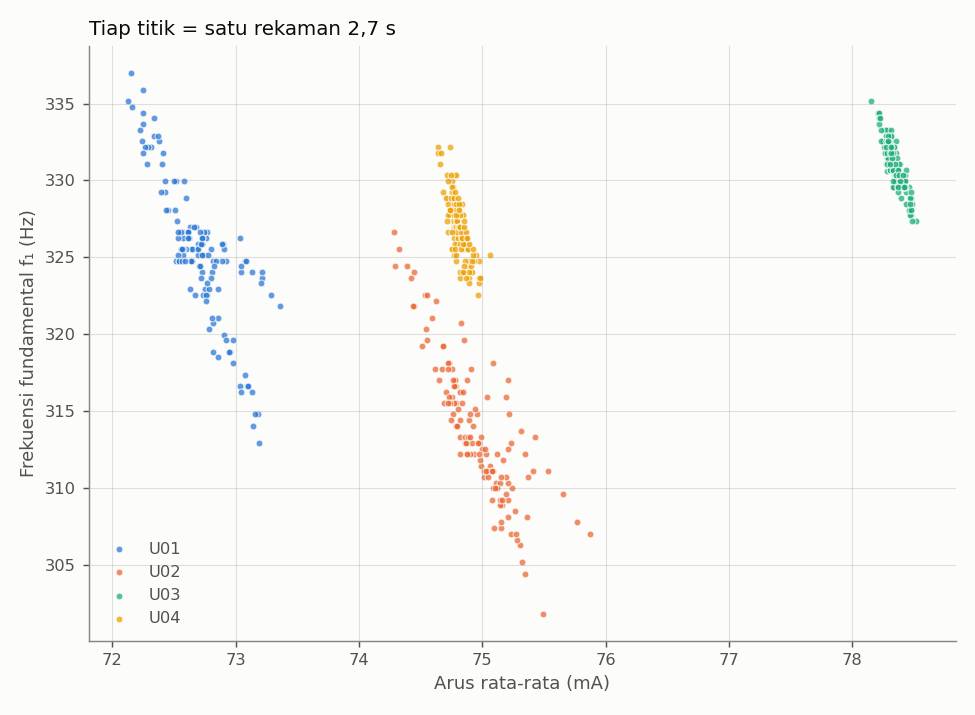
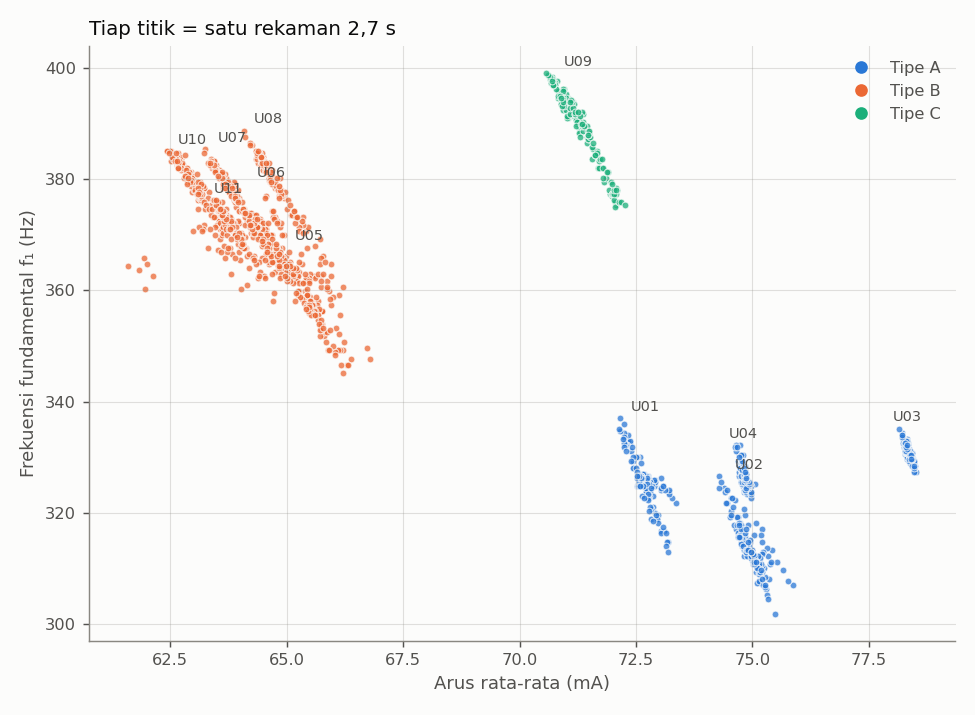
Rekaman U05-U11 dan analisis gerbang kelayakan 11 unit (tiga tipe karakteristik arus)

diff --git a/tools/overlay_orde.py b/tools/overlay_orde.py
@@ -11,6 +11,8 @@ pita fundamental), lalu dirata-rata. Hasil:
 
 Contoh:
     python tools/overlay_orde.py --units u01 u02 u03 u04 --sesi s4 --skip 60
+    python tools/overlay_orde.py --tipe A:u01,u02,u03,u04 B:u05,u06 C:u09 --sesi s4
+    (dengan --tipe, warna mengikuti tipe kipas dan ditambah grafik bentuk gelombang)
 ------------------------------------------------------------------
 """
 import argparse
@@ -67,14 +69,29 @@ def style(ax):
 
 def main():
     ap = argparse.ArgumentParser()
-    ap.add_argument("--units", nargs="+", required=True)
+    ap.add_argument("--units", nargs="+", default=[])
+    ap.add_argument("--tipe", nargs="+", default=[],
+                    help="kelompok tipe, mis. A:u01,u02 B:u05,u06 (warna per tipe)")
     ap.add_argument("--sesi", default="s4")
     ap.add_argument("--skip", type=float, default=60, help="buang rekaman t < skip detik (pemanasan)")
     ap.add_argument("--outdir", default="data")
     args = ap.parse_args()
 
+    tipe_of = {}
+    for item in args.tipe:
+        name, members = item.split(":")
+        for u in members.split(","):
+            tipe_of[u] = name
+    units = list(tipe_of) or args.units
+    if not units:
+        ap.error("pakai --units atau --tipe")
+    tipe_names = list(dict.fromkeys(tipe_of.values()))
+
+    def color_of(u, k):
+        return COLORS[tipe_names.index(tipe_of[u])] if tipe_of else COLORS[k]
+
     res = {}
-    for u in args.units:
+    for u in units:
         recs = [per_recording(p) for p in sorted(glob.glob(f"data/sehat_{u}_pwm100_{args.sesi}_*.csv"))]
         recs = [r for r in recs if not (r["t"] < args.skip)]
         if recs:
@@ -85,9 +102,15 @@ def main():
     # ---- 1. Overlay spektrum orde ----
     fig, ax = plt.subplots(figsize=(11, 5.5), facecolor=SURFACE)
     style(ax)
+    seen = set()
     for k, (u, recs) in enumerate(res.items()):
         mean_amp = np.nanmean([r["amp_o"] for r in recs], axis=0)
-        ax.semilogy(ORDER_GRID, mean_amp, lw=1.2, color=COLORS[k], label=f"{u.upper()} (n={len(recs)})")
+        if tipe_of:
+            lbl = None if tipe_of[u] in seen else f"Tipe {tipe_of[u]}"
+            seen.add(tipe_of[u])
+        else:
+            lbl = f"{u.upper()} (n={len(recs)})"
+        ax.semilogy(ORDER_GRID, mean_amp, lw=1.0, alpha=0.85, color=color_of(u, k), label=lbl)
     for k in (1, 2, 3, 4):
         ax.axvline(k, color=MUTED, lw=0.6, ls=":")
     ax.set_xlabel("Orde (f / f₁)", color=INK2)
@@ -104,14 +127,41 @@ def main():
     style(ax)
     for k, (u, recs) in enumerate(res.items()):
         ax.scatter([r["dc"] for r in recs], [r["f1"] for r in recs], s=14, alpha=0.75,
-                   color=COLORS[k], edgecolors=SURFACE, linewidths=0.6, label=u.upper())
+                   color=color_of(u, k), edgecolors=SURFACE, linewidths=0.6, label=u.upper())
+        if tipe_of:
+            ax.annotate(u.upper(), (np.median([r["dc"] for r in recs]), np.max([r["f1"] for r in recs])),
+                        textcoords="offset points", xytext=(0, 4), ha="center", fontsize=8, color=INK2)
     ax.set_xlabel("Arus rata-rata (mA)", color=INK2)
     ax.set_ylabel("Frekuensi fundamental f₁ (Hz)", color=INK2)
     ax.set_title("Tiap titik = satu rekaman 2,7 s", color=INK, fontsize=11, loc="left")
-    ax.legend(frameon=False, labelcolor=INK2, fontsize=9)
+    if tipe_of:
+        handles = [plt.Line2D([], [], marker="o", ls="", color=COLORS[i]) for i in range(len(tipe_names))]
+        ax.legend(handles, [f"Tipe {t}" for t in tipe_names], frameon=False, labelcolor=INK2, fontsize=9)
+    else:
+        ax.legend(frameon=False, labelcolor=INK2, fontsize=9)
     fig.tight_layout()
     p2 = os.path.join(args.outdir, "gerbang_f1_vs_arus.png")
     fig.savefig(p2, dpi=130, facecolor=SURFACE)
+
+    # ---- 2b. Bentuk gelombang satu unit per tipe (small multiples, sumbu y sama) ----
+    p3 = None
+    if tipe_of:
+        reps = {t: next(u for u in res if tipe_of[u] == t) for t in tipe_names}
+        fig, axes = plt.subplots(len(reps), 1, figsize=(10, 2.3 * len(reps)), sharex=True, sharey=True,
+                                 facecolor=SURFACE)
+        axes = np.atleast_1d(axes)
+        for ax, (t, u) in zip(axes, reps.items()):
+            style(ax)
+            files = sorted(glob.glob(f"data/sehat_{u}_pwm100_{args.sesi}_*.csv"))
+            _, tt, raw = load_csv(files[len(files) // 2])
+            n = int(0.02 * 1e6 / np.median(np.diff(tt)))                 # 20 ms
+            ax.plot((tt[:n] - tt[0]) / 1e3, raw[:n] * LSB_MA, lw=1.2, color=COLORS[tipe_names.index(t)])
+            ax.set_title(f"Tipe {t} — {u.upper()}", color=INK, fontsize=10, loc="left")
+            ax.set_ylabel("Arus (mA)", color=INK2)
+        axes[-1].set_xlabel("Waktu (ms)", color=INK2)
+        fig.tight_layout()
+        p3 = os.path.join(args.outdir, "gerbang_bentuk_gelombang.png")
+        fig.savefig(p3, dpi=130, facecolor=SURFACE)
 
     # ---- 3. Tabel ciri ----
     names = ["f1 (Hz)", "I (mA)", "riak/DC (%)", "A orde1 (mA)", "A orde2 (mA)", "A orde3 (mA)", "A orde4 (mA)"]
@@ -125,7 +175,7 @@ def main():
         within = np.mean([rows[u][1][j] for u in rows])
         print(f"{n:14s}" + "".join(f"{rows[u][0][j]:>10.3f} ± {rows[u][1][j]:<5.3f}" for u in rows)
               + f"{means.std(ddof=1) if len(means) > 1 else float('nan'):>14.3f}{within:>14.3f}")
-    print(f"\nGambar: {p1}\n        {p2}")
+    print(f"\nGambar: {p1}\n        {p2}" + (f"\n        {p3}" if p3 else ""))
 
 
 if __name__ == "__main__":

diff --git a/docs/analisis-gerbang-kelayakan-2.md b/docs/analisis-gerbang-kelayakan-2.md
@@ -1,0 +1,100 @@
+# Analisis Gerbang Kelayakan — Langkah 1 (Lengkap): 11 Unit Kondisi Sehat
+
+*Tanggal: 16-10-2026 · Data: sesi s4, unit U01–U11 · Skrip: `tools/overlay_orde.py --tipe ...` · Lanjutan dari [analisis-gerbang-kelayakan-1.md](analisis-gerbang-kelayakan-1.md)*
+
+## Ringkasan
+
+1. Sebelas kipas berlabel sama (Hanaya FAN5010DC, 12 V / 0,09 A, toko yang sama) ternyata terbagi menjadi **tiga karakteristik arus** yang berbeda jelas. Perbedaan ini kemungkinan besar berasal dari rangkaian penggerak motor di dalam kipas, karena bentuk luar, stiker, dan bunyinya identik.
+2. **Tipe A** (U01–U04) dan **tipe B** (U05–U08, U10, U11) dipakai sebagai unit utama. **U09** (tipe C, satu-satunya) dijadikan **unit cadangan**. Hasilnya sudah dikonfirmasi dengan rekaman ulang tanpa beban listrik besar lain di jaringan.
+3. Di dalam satu tipe, unit-unit kipas cukup mirip. Antar tipe, perbedaannya sangat besar (riak/DC 6 % vs 25 %). Rancangan eksperimen perlu menyertakan **kedua tipe di setiap jalur perlakuan**, supaya model belajar mengenali kondisi, bukan tipe kipas.
+4. Tipe B menghasilkan riak dengan perubahan sangat tajam, sehingga banyak harmonik tinggi **ter-*alias*** pada laju cuplik 3030 SPS. Hal ini perlu ditangani sebelum pengumpulan data sapuan PWM.
+
+## 1. Data
+
+| Tipe | Unit | Riwayat | Rekaman dianalisis |
+|---|---|---|---|
+| A | U01, U02 | sudah beberapa kali dioperasikan | 136 per unit |
+| A | U03, U04 | inreyen 30 menit | 136–150 per unit |
+| B | U05, U06, U07, U08, U10, U11 | inreyen 1 jam | 136–150 per unit |
+| C | U09 | inreyen 1 jam | 150 (+ 30 rekaman ulang) |
+
+Kondisi: 12,72 V tanpa PWM, dudukan terstandar, kipas angin ruangan mati, 0 konversi terlewat di semua rekaman. Rekaman 60 detik pertama tiap unit dibuang (pemanasan).
+
+## 2. Bentuk gelombang arus
+
+![Bentuk gelombang arus tiap tipe](../data/gerbang_bentuk_gelombang.png)
+
+- **Tipe A:** riak halus di sekitar 70–75 mA dengan penurunan kecil setiap komutasi (p-p ±28 mA).
+- **Tipe B:** arus **anjlok tajam hingga mendekati 0–40 mA** setiap komutasi (p-p ±86 mA). Pola ini khas penggerak yang memutus arus sepenuhnya saat pergantian fasa.
+- **Tipe C (U09):** bentuk trapesium tanpa penurunan tajam (p-p ±27 mA), berbeda dari keduanya.
+
+## 3. Ringkasan ciri per unit
+
+| Unit | Tipe | f₁ (Hz) | I (mA) | Riak/DC (%) | Amplitudo orde 1 (mA) | Amplitudo orde 2 (mA) |
+|---|---|---|---|---|---|---|
+| U01 | A | 325,3 ± 4,6 | 72,70 | 6,02 | 1,85 | 1,07 |
+| U02 | A | 313,9 ± 4,6 | 74,96 | 5,97 | 1,85 | 1,01 |
+| U03 | A | 331,0 ± 1,6 | 78,34 | 5,88 | 2,05 | 0,65 |
+| U04 | A | 326,9 ± 2,0 | 74,82 | 5,92 | 1,92 | 0,95 |
+| U05 | B | 358,3 ± 5,5 | 65,48 | 24,98 | 5,26 | 8,42 |
+| U06 | B | 368,9 ± 4,8 | 64,75 | 25,20 | 5,48 | 8,34 |
+| U07 | B | 376,0 ± 5,8 | 63,93 | 24,09 | 4,50 | 7,89 |
+| U08 | B | 379,8 ± 5,1 | 64,71 | 24,26 | 4,19 | 7,85 |
+| U10 | B | 378,1 ± 5,2 | 63,06 | 25,30 | 4,46 | 7,46 |
+| U11 | B | 370,5 ± 4,0 | 63,72 | 25,99 | 5,89 | 8,49 |
+| U09 | C | 388,9 ± 6,8 | 71,33 | 9,92 | 5,96 | 0,99 |
+
+Pengamatan:
+
+- **Riak/DC adalah pembeda tipe yang sangat tegas:** 5,9–6,0 % (A), 24,1–26,0 % (B), 9,9 % (C). Variasi di dalam satu tipe kecil (±0,2–0,8 poin).
+- **Di dalam tipe B, unit-unit saling tumpang tindih** pada bidang f₁–arus (lihat Gambar 4). Sebaliknya, keempat unit tipe A terpisah satu sama lain pada sumbu arus.
+- Tipe B lebih cepat (f₁ 358–380 Hz) dan menarik arus lebih kecil (63–65,5 mA) dibanding tipe A (314–331 Hz, 72,7–78,3 mA).
+- Pada **semua tipe**, kecepatan berfluktuasi ±1–2 % dan selalu berbanding terbalik dengan arus.
+
+## 4. Spektrum orde dan sebaran f₁–arus
+
+![Spektrum orde per tipe](../data/gerbang_spektrum_orde.png)
+
+![f₁ vs arus semua unit](../data/gerbang_f1_vs_arus.png)
+
+- Orde bulat (1–4 × f₁) muncul pada semua tipe, tetapi rasio amplitudonya berbeda: tipe B memiliki orde 2 yang paling kuat, sedangkan tipe A dan C didominasi orde 1.
+- **Lantai derau tipe B ±0,11 mA, hampir 3× tipe A (±0,04 mA).** Ini konsisten dengan banyaknya harmonik tinggi yang ter-*alias* dan menyebar ke seluruh spektrum.
+- Pada tipe B, puncak lebar di orde ≈ 0,7; 1,7; 2,7; 3,7 adalah ***alias*** harmonik ke-13 s.d. ke-16 (di sekitar 2 × laju cuplik). Komponen ini bergeser berlawanan arah dengan kecepatan, sehingga tidak boleh dipakai sebagai ciri.
+- Amplitudo di orde ¼ f₁ (kandidat 1× putaran, tanda tangan Tidak Seimbang):
+
+  | Tipe | Nilai per unit (mA) | σ antar-unit (mA) | Lantai derau (mA) |
+  |---|---|---|---|
+  | A | 0,075 · 0,070 · 0,092 · 0,084 | 0,010 | 0,04 |
+  | B | 0,51 · 0,23 · 0,23 · 0,23 · 0,23 · 0,25 | 0,11 (0,012 tanpa U05) | 0,11 |
+  | C | 0,33 | — | 0,05 |
+
+  Pada tipe B, hubungan f₁ = 4 × putaran **belum terbukti**. Puncak orde ¼ yang jelas pada tipe A tidak tampak pada tipe B, dan U05 memiliki garis dasar 2× lebih tinggi dari unit B lainnya.
+
+## 5. Implikasi dan usulan (perlu persetujuan dosen pembimbing)
+
+**a. Pembagian unit ke jalur perlakuan, dengan kedua tipe di setiap jalur:**
+
+| Jalur | Perlakuan | Usulan unit | Tipe A | Tipe B |
+|---|---|---|---|---|
+| A | Sehat → blokade → massa 33/67/100 mg | 2 tipe A + 2 tipe B | 2 | 2 |
+| B | Sehat → blokade | 1 tipe A + 2 tipe B | 1 | 2 |
+| C | Sehat → bilah dipatahkan | 1 tipe B | — | 1 |
+| E | Tidak diberi perlakuan (kontrol) | 1 tipe A + 1 tipe B | 1 | 1 |
+| Cadangan | — | U09 (tipe C) | — | — |
+
+Cakupan: Aliran Terhambat 7 unit (3 A + 4 B), Tidak Seimbang 4 unit (2 A + 2 B). Penentuan unit mana masuk jalur mana dapat dilakukan secara acak di dalam tiap tipe.
+
+**b. Pemilihan ciri:** gunakan ciri yang dinormalisasi (rasio terhadap DC atau terhadap amplitudo orde 1) dan berbasis orde. Arus absolut dan riak/DC sangat bergantung pada tipe, sehingga berisiko membuat model mengenali tipe kipas, bukan kondisinya.
+
+**c. Validasi:** selain *leave-one-unit-out*, laporkan akurasi per tipe, dan bila memungkinkan uji **lintas tipe** (latih pada satu tipe, uji pada tipe lain) sebagai ukuran generalisasi.
+
+**d. *Aliasing* pada tipe B (masalah teknis yang perlu diputuskan sebelum sapuan PWM).** Pilihan yang dapat diuji:
+1. Menaikkan laju cuplik ke 4,9 kSPS (VSHCT 204 µs). Perlu uji apakah I²C sanggup tanpa konversi terlewat.
+2. Menambahkan tapis RC diferensial di masukan INA226 (IN+/IN−). Perlu dipilih nilai R yang kecil agar arus bias masukan INA226 tidak menimbulkan galat.
+3. Menerima *alias* dan hanya memakai ciri di orde rendah yang tidak tercemar.
+
+## 6. Keterbatasan
+
+- Hanya satu sesi (s4). Sesi kedua (s5) untuk validasi antar-sesi belum direkam.
+- Semua pada tegangan penuh; belum ada data sapuan PWM.
+- Penyebab perbedaan tipe (rangkaian penggerak internal) belum diverifikasi secara fisik, misalnya dengan membongkar satu unit.

diff --git a/README.md b/README.md
@@ -28,7 +28,7 @@ Sistem pemantau kondisi kipas pendingin **DC 12 V** yang berjalan sepenuhnya di 
 | Domain | **DC 12 V** (disetujui dosen pembimbing) |
 | Mikrokontroler | ESP32-S3 (DevKitC-1 atau setara) |
 | Sensor | **INA226**, alamat I²C `0x44`, *shunt* bawaan **0,1 Ω** (R100) |
-| Objek uji | Kipas **Hanaya FAN5010DC**: 50×50×10 mm, *brushless*, 12 V / 0,09 A, 2 kabel (tanpa tacho), **7 bilah**. Total 10 unit (U01–U10) |
+| Objek uji | Kipas **Hanaya FAN5010DC**: 50×50×10 mm, *brushless*, 12 V / 0,09 A, 2 kabel (tanpa tacho), **7 bilah**. 10 unit utama (U01–U08, U10, U11) + U09 cadangan; terdapat dua tipe karakteristik arus (A dan B), lihat log 16-10-2026 |
 | Resolusi arus | 2,5 µV/LSB ÷ 0,1 Ω = **25 µA/LSB**; batas ukur 0,819 A |
 | Jumlah kelas | **4** (cadangan: 3 kelas bila kelas Aliran Terhambat tidak terpisah) |
 | Ciri | Spektrum FFT dengan ***order tracking*** (orde putaran, bukan Hz absolut) + statistik riak |
@@ -194,7 +194,7 @@ robocopy data "G:\My Drive\proyek-kipas-edge-ai-data" *.csv /S /XO
 
 ## Progres dan Log Eksperimen
 
-**Langkah berikutnya:** (1) rekam U05–U10 kondisi Sehat (kipas baru: inreyen 30 menit dulu); (2) rangkaian PWM untuk sapuan 40–100 % — data Sehat pada berbagai *duty* harus terkumpul **sebelum** perlakuan permanen (massa) pada unit jalur A. Pengukuran RPM dengan stroboskop masih tertunda.
+**Langkah berikutnya:** (1) konsultasi dosen: pembagian jalur per tipe kipas dan penanganan *aliasing* tipe B (lihat `docs/analisis-gerbang-kelayakan-2.md`); (2) rangkaian PWM untuk sapuan 40–100 % — data Sehat pada berbagai *duty* harus terkumpul **sebelum** perlakuan permanen (massa) pada unit jalur A. Pengukuran RPM dengan stroboskop masih tertunda.
 
 - [x] Perakitan perangkat keras (ESP32-S3 + INA226 + kipas 12 V).
 - [x] Scan I²C: INA226 terdeteksi di **0x44**.
@@ -255,6 +255,12 @@ robocopy data "G:\My Drive\proyek-kipas-edge-ai-data" *.csv /S /XO
   - Terdapat puncak di **kelipatan ¼ f₁** (0,5; 0,75; 1,25; 1,75; 2,25; 2,75). Ini mendukung hipotesis (a): f₁ = 4 × frekuensi putaran, sehingga **putaran ≈ f₁/4 ≈ 78–83 Hz (≈ 4.700–5.000 RPM)**. Belum dikonfirmasi stroboskop/uji massa.
   - Amplitudo di orde ¼ f₁ (kandidat **1× putaran**, tanda tangan Tidak Seimbang): 0,077 / 0,076 / 0,090 / 0,085 mA (U01–U04), σ antar-unit **0,007 mA**, σ dalam-unit ≈ 0,02 mA, lantai derau ≈ 0,04 mA. Garis dasar yang rendah dan seragam ini menjanjikan untuk mendeteksi massa tambahan.
   - Sebaliknya, orde ½ f₁ (0,21–0,98 mA) dan 1½ f₁ (0,22–0,80 mA) sangat berbeda antar unit, begitu pula arus rata-rata (σ antar-unit 2,33 mA vs σ dalam-unit 0,17 mA; keempat unit terpisah sempurna pada sumbu arus). Ciri-ciri ini berpotensi menjadi **sidik jari unit**, sehingga harus diwaspadai dalam pemilihan ciri dan diuji melalui LOUO.
+- [x] **16-10-2026: Rekaman U05–U11 sesi s4** (7 kipas baru, inreyen 1 jam; 150 rekaman per unit; 0 konversi terlewat; data di Google Drive). U09 direkam ulang 30× (`s4u`) tanpa beban listrik besar lain di jaringan, dengan hasil identik.
+- [~] **16-10-2026: Gerbang kelayakan langkah 1 — 11 unit** — laporan: [`docs/analisis-gerbang-kelayakan-2.md`](docs/analisis-gerbang-kelayakan-2.md); grafik `data/gerbang_bentuk_gelombang.png`, `data/gerbang_spektrum_orde.png`, `data/gerbang_f1_vs_arus.png`.
+  - Kipas berlabel sama terbagi menjadi **tiga tipe karakteristik arus**: **tipe A** U01–U04 (riak/DC ≈ 6 %, 73–78 mA), **tipe B** U05–U08, U10, U11 (riak/DC ≈ 25 %, 63–65 mA, arus anjlok tajam tiap komutasi), **tipe C** U09 (riak/DC ≈ 10 %, 71 mA).
+  - **U09 ditetapkan sebagai unit cadangan**; 10 unit utama: U01–U08, U10, U11.
+  - Tipe B mengalami *aliasing* berat (lantai derau ±0,11 mA vs ±0,04 mA tipe A), yang perlu ditangani sebelum sapuan PWM.
+  - Usulan pembagian jalur dengan kedua tipe di setiap jalur ada di laporan bagian 5 dan **menunggu persetujuan dosen pembimbing**.
 - [ ] **Pergeseran kecepatan U01 sesi s2.** Rekaman 01:01 menunjukkan 309,6 Hz / 74,3 mA, sedangkan satu menit kemudian 321,8 Hz / 73,2 mA pada 12,716 V. Putaran lebih lambat disertai arus lebih tinggi mengindikasikan beban mekanis sesaat (dugaan: aliran udara terhalang oleh posisi kipas, belum dikonfirmasi). Tindak lanjut: dudukan kipas yang terstandar.
 - [ ] **Penetapan orde 1× (RPM).** Hipotesis dari spektrum U01: (a) 321 Hz = 4 komutasi/putaran → **4.816 RPM** (80,3 Hz; orde bilah 7× di 562 Hz hanya +11,6 dB), paling masuk akal untuk kipas 5010; (b) 2 komutasi/putaran → 9.633 RPM (kecil kemungkinan); (c) 6 komutasi/putaran → 3.211 RPM (tidak ada orde 2×). Perlu verifikasi stroboskop atau uji massa.
 - [ ] Uji bilah patah (validasi *pipeline* sekaligus konfirmasi orde 1×).
